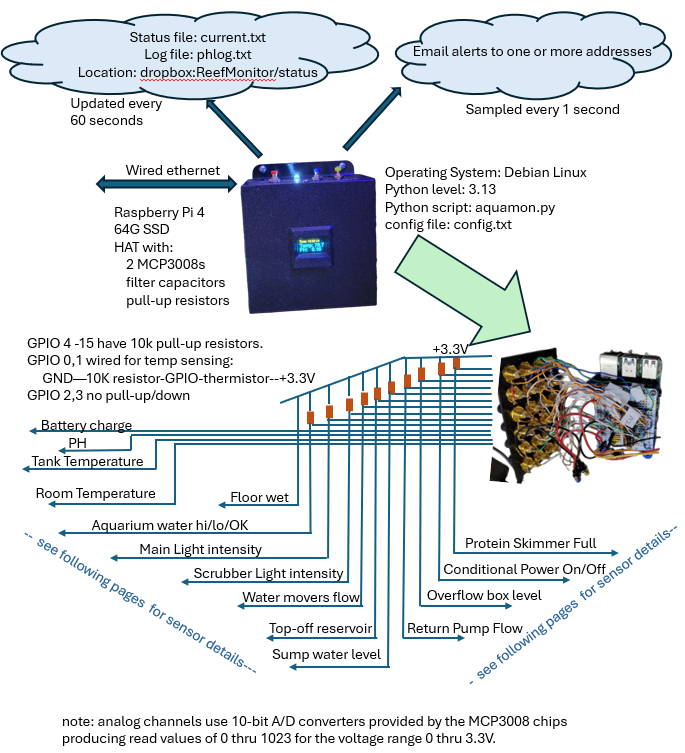
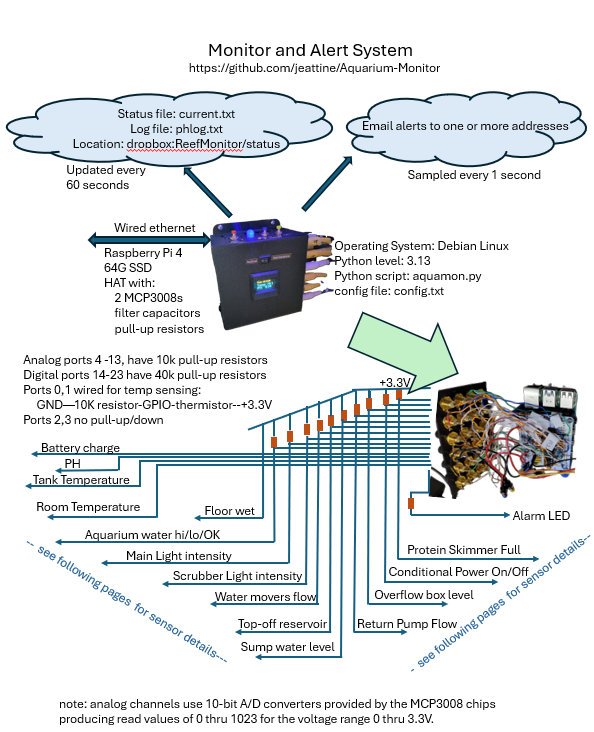
Documentation updated

diff --git a/README.md b/README.md
@@ -19,15 +19,13 @@ The Raspberry Pi board, Perma-Proto Hat with the two MCP3008 ICs, and the wiring
 
 ![Internals](https://github.com/jeattine/Aquarium-Monitor/blob/main/images/internal.jpg)
 
-The custom 3D printed enclosure:
-
-![Enclosure](https://github.com/jeattine/Aquarium-Monitor/blob/main/images/enclosure.jpg)
-
 The assembled unit:
 
-![Assembled1](https://github.com/jeattine/Aquarium-Monitor/blob/main/images/assembled1.jpg)
+![Assembled3](https://github.com/jeattine/Aquarium-Monitor/blob/main/images/assembled3.jpg)
 
 ![Assembled2](https://github.com/jeattine/Aquarium-Monitor/blob/main/images/assembled2.jpg)
+
+![Assembled1](https://github.com/jeattine/Aquarium-Monitor/blob/main/images/assembled1.jpg)
 
 The following images show the various sensors that feed the inputs to the GPIO device: 
   
